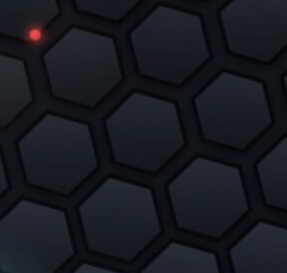
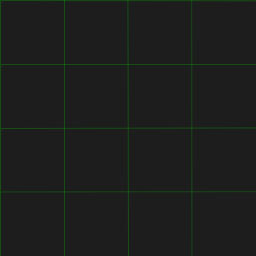
scroll space

diff --git a/client/src/scene.js b/client/src/scene.js
@@ -1,6 +1,70 @@
 
 
+var ZORDER = {
+	bgZOrder : 1,
+	entityZOrder : 10,
+	uiZOrder : 100,
+};
+
+
+var WorldBGLayer = cc.Layer.extend({
+
+	tileW:256,
+	tileH:256,
+
+	tileRoot:null,
+	tiles:null,
+
+	ctor:function () {
+		this._super();
+
+		var size = cc.winSize;
+		var helloLabel = new cc.LabelTTF("(half,half)", "Arial", 14);
+		helloLabel.x = size.width / 2;
+		helloLabel.y = size.height / 2;
+		this.addChild(helloLabel, 5);
+		helloLabel = new cc.LabelTTF("(0,0)", "Arial", 14);
+		helloLabel.x = 0;
+		helloLabel.y = 0;
+		this.addChild(helloLabel, 5);
+
+		this.tileRoot = new cc.Node;
+		this.addChild(this.tileRoot, 0);
+
+		var numx = Math.ceil(size.width / this.tileW) + 2;
+		var numy = Math.ceil(size.height / this.tileH) + 2;
+
+		this.tiles = [];
+		for(var x = 0; x < numx; x++){
+			this.tiles[x] = [];
+			for(var y = 0; y < numy; y++){
+				var sprite = new cc.Sprite(res.tile_bg);
+				sprite.attr({
+					x: this.tileW * (x - 0.5),
+					y: this.tileH * (y - 0.5)
+				});
+				this.tiles[x][y] = sprite;
+				this.tileRoot.addChild(sprite, 0);
+			}
+		}
+		return true;
+	},
+
+	setPosition:function(x, y){
+		this.setPositionX(x);
+		this.setPositionY(y);
+		var tilex = x % this.tileW;
+		var tiley = y % this.tileH;
+		this.tileRoot.setPositionX(tilex - this.getPositionX());
+		this.tileRoot.setPositionY(tiley - this.getPositionY());
+	}
+});
+
+
 var GameScene = cc.Scene.extend({
+
+	worldLayer:null,
+
 	onEnter:function () {
 		this._super();
 		cc.eventManager.addListener({
@@ -8,6 +72,9 @@ var GameScene = cc.Scene.extend({
 			onKeyPressed:this.onKeyPressed,
 			onKeyReleased:this.onKeyReleased
 		},this);
+		this.worldLayer = new WorldBGLayer;
+		this.worldLayer.setVisible(false);
+		this.addChild(this.worldLayer);
 	},
 	onExit: function () {
 		this._super();
@@ -18,5 +85,8 @@ var GameScene = cc.Scene.extend({
 	},
 	onKeyReleased:function (keyCode, event) {
 		TouchControl.onKeyReleased(keyCode);
+	},
+	getWorldLayer:function(){
+		return this.worldLayer;
 	}
 });

diff --git a/client/src/msghandler.js b/client/src/msghandler.js
@@ -26,7 +26,15 @@ var MsgHandler = {
 		var playerInst = Game.addPlayer(guid, name, tp, x, y);
 		if (Game.myPlayerGuid === guid){
 			Game.myPlayerInst = playerInst;
+			MsgHandler.lookAtPlayer(playerInst);
 		}
+	},
+
+	lookAtPlayer:function(playerInst){
+		var wl = gameScene.getWorldLayer();
+		var dx = cc.winSize.width * 0.5 - playerInst.getPositionX();
+		var dy = cc.winSize.height * 0.5 - playerInst.getPositionY();
+		wl.setPosition(dx, dy);
 	},
 
 	onPlayerTransform:function(args){
@@ -37,6 +45,9 @@ var MsgHandler = {
 		var playerInst = Game.getPlayer(guid);
 		if (playerInst instanceof Player){
 			playerInst.setPosition(x, y);
+			if (guid == Game.myPlayerGuid){
+				MsgHandler.lookAtPlayer(playerInst);
+			}
 		}
 	}
 

diff --git a/client/src/player.js b/client/src/player.js
@@ -13,7 +13,7 @@ var BaseObj = cc.Class.extend({
 	ctor:function(){
 		this.avatarRoot = new cc.Node;
 		this.avatarRoot.setVisible(false);
-		gameScene.addChild(this.avatarRoot, ZORDER.entityZOrder);
+		gameScene.getWorldLayer().addChild(this.avatarRoot, ZORDER.entityZOrder);
 		this.avatarBody = new cc.Node;
 		this.avatarRoot.addChild(this.avatarBody, 0);
 		this.avatarEffect = new cc.Node;
@@ -24,6 +24,9 @@ var BaseObj = cc.Class.extend({
 		this.x = x;this.y = y;
 		this.avatarRoot.setPosition(x,y);
 	},
+
+	getPositionX:function(){return this.x;},
+	getPositionY:function(){return this.y;},
 
 	onCreate:function(){
 		this.avatarRoot.setVisible(true);

diff --git a/client/main.js b/client/main.js
@@ -52,30 +52,8 @@
  *
  */
 
-/*var GameLayer = cc.Layer.extend({
-	ctor:function () {
-		this._super();
-		var size = cc.winSize;
-		 var helloLabel = new cc.LabelTTF("what we don't know", "Arial", 14);
-		 helloLabel.x = size.width / 2;
-		 helloLabel.y = size.height / 2 + 200;
-		 this.addChild(helloLabel, 5);
-		 this.sprite = new cc.Sprite(res.Splah_png);
-		 this.sprite.attr({
-		 x: size.width / 2,
-		 y: size.height / 2
-		 });
-		 this.addChild(this.sprite, 0);
-		return true;
-	}
-});*/
 
 
-var ZORDER = {
-	bgZOrder : 1,
-	entityZOrder : 10,
-	uiZOrder : 100,
-};
 
 var gameScene = null;
 

diff --git a/client/src/status.js b/client/src/status.js
@@ -66,6 +66,8 @@ var StatePlay = StateBase.extend({
 	onEnter:function(){
 		this._super();
 
+		gameScene.getWorldLayer().setVisible(true);
+
 		var size = cc.winSize;
 		var helloLabel = new cc.LabelTTF("what we don't know", "Arial", 14);
 		helloLabel.x = size.width / 2;
@@ -73,6 +75,10 @@ var StatePlay = StateBase.extend({
 		this.node.addChild(helloLabel, 5);
 
 		MsgSender.join();
+	},
+
+	onExit:function(){
+		gameScene.getWorldLayer().setVisible(false);
 	}
 
 });

diff --git a/client/src/resource.js b/client/src/resource.js
@@ -4,6 +4,7 @@ var res = {
 	ui_png : "res/ioui.png",
 	ui_account : "res/account.json",
 	dot_png : "res/dot.png",
+	tile_bg : "res/tile.jpg"
 };
 
 var g_resources = [];

diff --git a/server/player.py b/server/player.py
@@ -8,7 +8,7 @@ from datatypes import MsgType
 
 class Player:
 	# Friction accleration
-	acc_friction = 0.5
+	acc_friction = 0.8
 	# Control accleration
 	acc_control = 1
 
